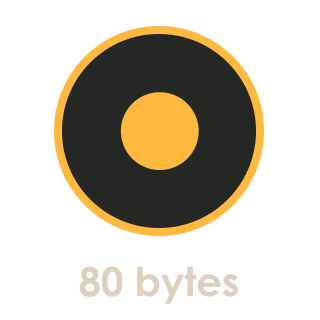
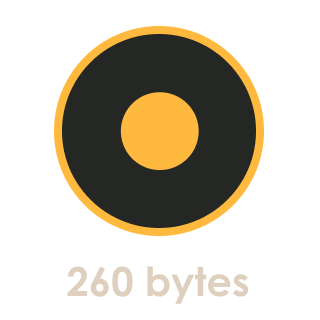
For Olov

Changed region(s): [[0.1875, 0.8125, 0.7812, 0.9688]]

diff --git a/core/src/main/java/com/IONA/TowerDefense/model/models/GameModel.java b/core/src/main/java/com/IONA/TowerDefense/model/models/GameModel.java
@@ -16,6 +16,7 @@ import com.IONA.TowerDefense.model.ui.playerui.*;
 import com.IONA.TowerDefense.model.units.enemies.Enemy;
 import com.IONA.TowerDefense.model.units.interfaces.AttackListener;
 import com.IONA.TowerDefense.model.units.interfaces.EnemyDeathListener;
+import com.IONA.TowerDefense.model.units.interfaces.InputListener;
 import com.IONA.TowerDefense.model.units.interfaces.TowerListener;
 import com.IONA.TowerDefense.model.units.towers.TowerFactory;
 import com.IONA.TowerDefense.model.units.projectiles.Projectile;
@@ -39,7 +40,7 @@ import java.util.List;
  * {@link TowerListener} to respond to in-game events.
  */
 
-public class GameModel implements EnemyDeathListener, AttackListener, TowerListener {
+public class GameModel implements EnemyDeathListener, AttackListener, TowerListener, InputListener {
 
     /// --- Game States ---
     private GameState currentState;
@@ -57,6 +58,8 @@ public class GameModel implements EnemyDeathListener, AttackListener, TowerListe
     private final EnemyHandler enemyHandler;
     private final ActionHandler actionHandler;
     private final TowerFactory towerFactory;
+
+    private final List<InputListener> inputListeners = new ArrayList<>();
 
 
     /// --- Game objects ---
@@ -121,7 +124,7 @@ public class GameModel implements EnemyDeathListener, AttackListener, TowerListe
         this.playButton = new PlayButton(14.8f, 0.2f);
         this.exitButton = new ExitButton(10f, 3f);
         this.speedUpButton = new SpeedUpButton(14.8f, 0.2f);
-        this.pauseButton = new PauseButton(10, 0);
+        this.pauseButton = new PauseButton(0f, 0f);
         this.restartButton = new RestartButton(5f, 3f);
         this.cancelButton = new CancelButton(towerMenu.getMenuPosition().x, towerMenu.getMenuPosition().y);
         this.targetingStrategyToggleButton = new TargetingStrategyToggleButton(5, 5, "");
@@ -262,6 +265,10 @@ public class GameModel implements EnemyDeathListener, AttackListener, TowerListe
      * @param action the action to handle
      * @param sourceButton the button that triggered the action
      */
+
+    public void addInputListener(InputListener l){
+        inputListeners.add(l);
+    }
 
     public void handleAction(GameAction action, Button sourceButton) {
         actionHandler.handleAction(action, sourceButton);
@@ -406,6 +413,15 @@ public class GameModel implements EnemyDeathListener, AttackListener, TowerListe
     public void updateTowerFollowingMouse(Vector2 mousePos) {
         if (towerHandler.getPendingTower() != null && towerHandler.isBuyingState()) {
             towerHandler.getPendingTower().setPosition(mousePos);
+        }
+    }
+
+    public void updateHover(Vector2 mousePos){
+        for(TowerMenuItem item: getTowerMenuItems()){
+            if (item.isHovered(mousePos)) {
+                notifyButtonHovered(item.getTowerType());
+            }
+
         }
     }
     /**
@@ -592,5 +608,12 @@ public class GameModel implements EnemyDeathListener, AttackListener, TowerListe
     public List<Button> getUpgradeMenuItems() {
         return upgradeMenu.items;
     }
+
+    public void notifyButtonHovered(String s){
+        for(InputListener l: inputListeners){
+            l.onButtonHovered(s);
+        }
+    }
+
 
 }

diff --git a/core/src/main/java/com/IONA/TowerDefense/view/ui/buttons/TowerPulseIconDrawer.java b/core/src/main/java/com/IONA/TowerDefense/view/ui/buttons/TowerPulseIconDrawer.java
@@ -1,6 +1,7 @@
 package com.IONA.TowerDefense.view.ui.buttons;
 
 import com.IONA.TowerDefense.model.ui.towerui.sideMenu.TowerMenuItem;
+import com.IONA.TowerDefense.model.units.interfaces.InputListener;
 import com.IONA.TowerDefense.model.units.towers.TowerBasic;
 import com.IONA.TowerDefense.model.units.towers.TowerPulse;
 import com.IONA.TowerDefense.view.Assets;
@@ -10,15 +11,17 @@ import com.badlogic.gdx.graphics.g2d.SpriteBatch;
 import com.badlogic.gdx.graphics.glutils.ShapeRenderer;
 import com.badlogic.gdx.math.Vector2;
 
-public final class TowerPulseIconDrawer implements DrawableButton {
+public final class TowerPulseIconDrawer implements DrawableButton, InputListener {
 
     private final TowerMenuItem tower;
     private Vector2 p;
     private final float dimensionX;
     private final float dimensionY;
+    private boolean showMenu = false;
 
     // STATIC TEXTURE shared by all instances
     private static final Texture TEXTURE = new Texture(Assets.BUTTON_TOWERICON_TOWERPULSE);
+    private static final Texture TEXTURE_MENU = new Texture(Assets.MENU_INFOMENU_TOWERPULSE);
 
     public TowerPulseIconDrawer(TowerMenuItem tower) {
         this.tower = tower;
@@ -30,6 +33,20 @@ public final class TowerPulseIconDrawer implements DrawableButton {
     public void draw(SpriteBatch batch, ShapeRenderer shapeRenderer, float delta) {
         p = tower.getButtonPosition();
         batch.draw(TEXTURE, p.x, p.y, dimensionX, dimensionY);
+        if(showMenu){
+            float menuWidth = 3.5f;
+            float menuHeight = 4.40877f;
+            batch.draw(TEXTURE_MENU, p.x - menuWidth/2f + dimensionX/2f, p.y - menuHeight, menuWidth, menuHeight);
+        }
+        showMenu = false;
+
+    }
+
+    @Override
+    public void onButtonHovered(String s){
+        if(s == tower.getTowerType()){
+            this.showMenu = true;
+        }
     }
 
     public static void disposeStatic() {

diff --git a/core/src/main/java/com/IONA/TowerDefense/view/ui/buttons/TowerBasicIconDrawer.java b/core/src/main/java/com/IONA/TowerDefense/view/ui/buttons/TowerBasicIconDrawer.java
@@ -1,21 +1,27 @@
 package com.IONA.TowerDefense.view.ui.buttons;
 
 import com.IONA.TowerDefense.model.ui.towerui.sideMenu.TowerMenuItem;
+import com.IONA.TowerDefense.model.units.interfaces.InputListener;
 import com.IONA.TowerDefense.view.Assets;
+import com.badlogic.gdx.Input;
 import com.badlogic.gdx.graphics.Texture;
 import com.badlogic.gdx.graphics.g2d.SpriteBatch;
 import com.badlogic.gdx.graphics.glutils.ShapeRenderer;
 import com.badlogic.gdx.math.Vector2;
 
-public final class TowerBasicIconDrawer implements DrawableButton {
+public final class TowerBasicIconDrawer implements DrawableButton, InputListener {
 
     private final TowerMenuItem tower;
     private Vector2 p;
     private final float dimensionX;
     private final float dimensionY;
+    private boolean showMenu = false;
 
     // STATIC TEXTURE shared by all instances
     private static final Texture TEXTURE = new Texture(Assets.BUTTON_TOWERICON_TOWERBASIC);
+    private static final Texture TEXTURE_MENU = new Texture(Assets.MENU_INFOMENU_TOWERBASIC);
+
+
 
     public TowerBasicIconDrawer(TowerMenuItem tower) {
         this.tower = tower;
@@ -27,8 +33,20 @@ public final class TowerBasicIconDrawer implements DrawableButton {
     public void draw(SpriteBatch batch, ShapeRenderer shapeRenderer, float delta) {
         p = tower.getButtonPosition();
         batch.draw(TEXTURE, p.x, p.y, dimensionX, dimensionY);
+        if(showMenu){
+            float menuWidth = 3.5f;
+            float menuHeight = 3.9421f;
+            batch.draw(TEXTURE_MENU, p.x - menuWidth/2f + dimensionX/2f, p.y - menuHeight, menuWidth, menuHeight);
+        }
+        showMenu = false;
     }
 
+    @Override
+    public void onButtonHovered(String s){
+        if(s == tower.getTowerType()){
+             this.showMenu = true;
+        }
+    }
     public static void disposeStatic() {
         if (TEXTURE != null) TEXTURE.dispose();
     }

diff --git a/core/src/main/java/com/IONA/TowerDefense/view/ui/buttons/TowerMissileIconDrawer.java b/core/src/main/java/com/IONA/TowerDefense/view/ui/buttons/TowerMissileIconDrawer.java
@@ -1,21 +1,24 @@
 package com.IONA.TowerDefense.view.ui.buttons;
 
 import com.IONA.TowerDefense.model.ui.towerui.sideMenu.TowerMenuItem;
+import com.IONA.TowerDefense.model.units.interfaces.InputListener;
 import com.IONA.TowerDefense.view.Assets;
 import com.badlogic.gdx.graphics.Texture;
 import com.badlogic.gdx.graphics.g2d.SpriteBatch;
 import com.badlogic.gdx.graphics.glutils.ShapeRenderer;
 import com.badlogic.gdx.math.Vector2;
 
-public final class TowerMissileIconDrawer implements DrawableButton {
+public final class TowerMissileIconDrawer implements DrawableButton, InputListener {
 
     private final TowerMenuItem tower;
     private Vector2 p;
     private final float dimensionX;
     private final float dimensionY;
+    private boolean showMenu = false;
 
     // STATIC TEXTURE shared by all instances
     private static final Texture TEXTURE = new Texture(Assets.BUTTON_TOWERICON_TOWERMISSILE);
+    private static final Texture TEXTURE_MENU = new Texture(Assets.MENU_INFOMENU_TOWERMISSILE);
 
     public TowerMissileIconDrawer(TowerMenuItem tower) {
         this.tower = tower;
@@ -27,6 +30,19 @@ public final class TowerMissileIconDrawer implements DrawableButton {
     public void draw(SpriteBatch batch, ShapeRenderer shapeRenderer, float delta) {
         p = tower.getButtonPosition();
         batch.draw(TEXTURE, p.x, p.y, dimensionX, dimensionY);
+        if(showMenu){
+            float menuWidth = 3.5f;
+            float menuHeight = 3.7087f;
+            batch.draw(TEXTURE_MENU, 16-menuWidth-0.1f, p.y - menuHeight, menuWidth, menuHeight);
+        }
+        showMenu = false;
+    }
+
+    @Override
+    public void onButtonHovered(String s){
+        if(s == tower.getTowerType()){
+            this.showMenu = true;
+        }
     }
 
     public static void disposeStatic() {

diff --git a/core/src/main/java/com/IONA/TowerDefense/view/Draw.java b/core/src/main/java/com/IONA/TowerDefense/view/Draw.java
@@ -65,6 +65,7 @@ public class Draw implements EnemyDeathListener, AttackListener, InputListener, 
 
     private final Set<AttackListener> attackListeners = new HashSet<>();
     private final Set<TowerListener> towerListeners = new HashSet<>();
+    private final Set<InputListener> inputListeners = new HashSet<>();
 
     // Variables for fading transitions
     private float fadeTimer = 0f;
@@ -148,6 +149,10 @@ public class Draw implements EnemyDeathListener, AttackListener, InputListener, 
 
         if (view instanceof TowerListener l && !towerListeners.contains(view)) {
             towerListeners.add(l);
+        }
+
+        if (view instanceof InputListener l && !inputListeners.contains(l)){
+            inputListeners.add(l);
         }
 
         return view;
@@ -404,7 +409,13 @@ public class Draw implements EnemyDeathListener, AttackListener, InputListener, 
         for (TowerListener t : towerListeners) {
             t.onTowerStrategyToggle(strategy);
         }
+    }
 
+    @Override
+    public void onButtonHovered(String s){
+        for(InputListener l: inputListeners){
+            l.onButtonHovered(s);
+        }
     }
 
 }

diff --git a/core/src/main/java/com/IONA/TowerDefense/view/Assets.java b/core/src/main/java/com/IONA/TowerDefense/view/Assets.java
@@ -60,6 +60,8 @@ public class Assets {
 
     // MENUES
     public static final String MENU_INFOMENU_TOWERBASIC = "ui/menues/Menu_Infomenu_Towerbasic.png";
+    public static final String MENU_INFOMENU_TOWERMISSILE = "ui/menues/Menu_Infomenu_Towermissile.png";
+    public static final String MENU_INFOMENU_TOWERPULSE = "ui/menues/Menu_Infomenu_Towerpulse.png";
     public static final String MENU_TOWERMENU = "ui/menues/Menu_Towermenu.png";
     public static final String MENU_TOWERMENU_CANCEL = "ui/menues/Cancel_Button.png";
     public static final String MENU_UPGRADEMENU_TOWERBASIC = "ui/menues/Menu_Upgrademenu_TowerBasic.png";

diff --git a/core/src/main/java/com/IONA/TowerDefense/model/units/towers/TowerMissile.java b/core/src/main/java/com/IONA/TowerDefense/model/units/towers/TowerMissile.java
@@ -31,12 +31,12 @@ public class TowerMissile extends Tower implements Rotatable {
 
     public TowerMissile() {
         dimension = new Vector2(1f, 1f);
-        damage = 35;
-        baseDamage = 35;
+        damage = 80;
+        baseDamage = 80;
         projectileSpeed = 2;
-        baseFireRate = 1f;
-        cost = 50;
-        fireRate = 1f;
+        baseFireRate = 2f;
+        cost = 300;
+        fireRate = 2f;
         range = 8f;
         baseRange = 2f;
         cooldown = 0f;

diff --git a/core/src/main/java/com/IONA/TowerDefense/view/ui/buttons/SellButtonDrawer.java b/core/src/main/java/com/IONA/TowerDefense/view/ui/buttons/SellButtonDrawer.java
@@ -32,7 +32,7 @@ public final class SellButtonDrawer implements DrawableButton {
         p = button.getButtonPosition();
         batch.draw(TEXTURE, p.x, p.y, dimensionX, dimensionY);
         font.setColor(0.859f, 0.824f, 0.773f, 1f);
-        font.draw(batch, ("SELL: 56 bytes"), p.x + 0.08f, p.y + dimensionY - 0.001f);
+        font.draw(batch, ("SELL: 50 bytes"), p.x + 0.08f, p.y + dimensionY - 0.001f);
 
     }
 

diff --git a/core/src/main/java/com/IONA/TowerDefense/model/units/towers/TowerPulse.java b/core/src/main/java/com/IONA/TowerDefense/model/units/towers/TowerPulse.java
@@ -25,11 +25,11 @@ public class TowerPulse extends Tower {
 
     public TowerPulse() {
         dimension = new Vector2(1f, 1f);
-        damage = 20;
-        baseDamage = 20;
+        damage = 15;
+        baseDamage = 15;
         projectileSpeed = 8;
         baseFireRate = 0.1f;
-        cost = 50;
+        cost = 260;
         fireRate = 0.5f;
         range = 2f;
         baseRange = 2f;

diff --git a/core/src/main/java/com/IONA/TowerDefense/model/ui/buttonui/PauseButton.java b/core/src/main/java/com/IONA/TowerDefense/model/ui/buttonui/PauseButton.java
@@ -5,6 +5,6 @@ import com.IONA.TowerDefense.model.input.GameAction;
 public class PauseButton extends Button {
 
     public PauseButton(float x, float y) {
-        super(x, y, 1, 1, GameAction.PAUSE_TOGGLE);
+        super(0.1f, 9f - 0.9f, 0.8f, 0.8f, GameAction.PAUSE_TOGGLE);
     }
 }

diff --git a/core/src/main/java/com/IONA/TowerDefense/model/units/towers/TowerBasic.java b/core/src/main/java/com/IONA/TowerDefense/model/units/towers/TowerBasic.java
@@ -33,7 +33,7 @@ public class TowerBasic extends Tower implements Rotatable {
         damage = baseDamage;
         projectileSpeed = 8;
         baseFireRate = 0.01f;
-        cost = 50;
+        cost = 80;
         fireRate = 0.55f;
         range = 2f;
         baseRange = 2f;

diff --git a/core/src/main/java/com/IONA/TowerDefense/model/ui/buttonui/Button.java b/core/src/main/java/com/IONA/TowerDefense/model/ui/buttonui/Button.java
@@ -33,6 +33,8 @@ public abstract class Button {
         return visible && bounds.contains(pos);
     }
 
+    public boolean isHovered(Vector2 pos){ return visible && bounds.contains(pos);}
+
     public GameAction getAction() {
         return action;
     }
